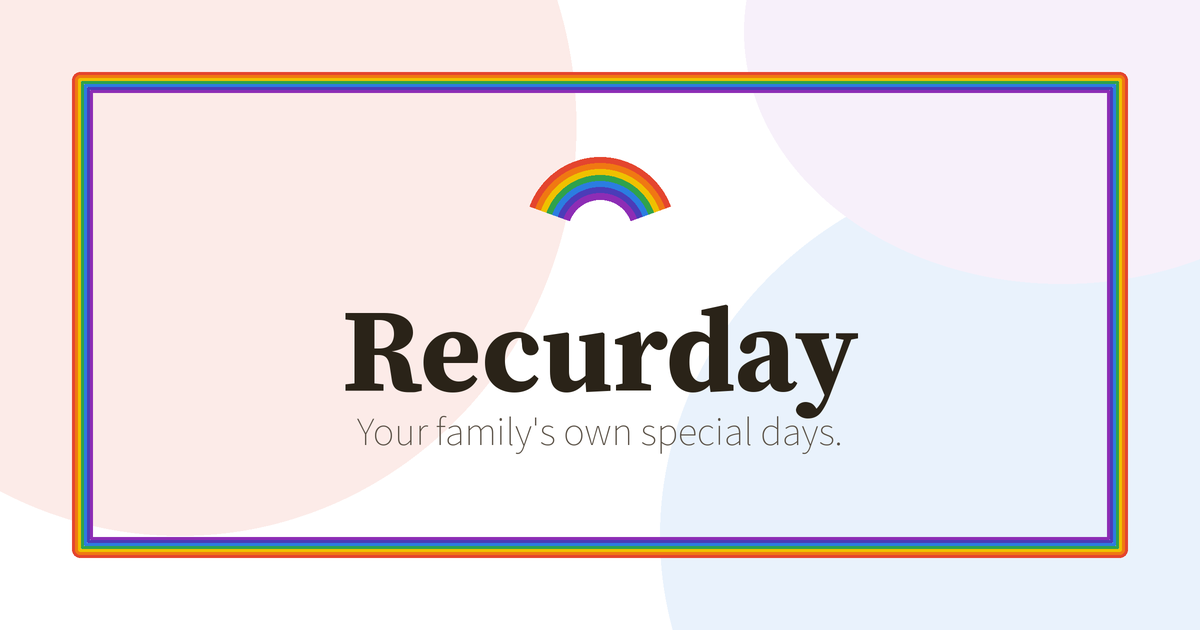
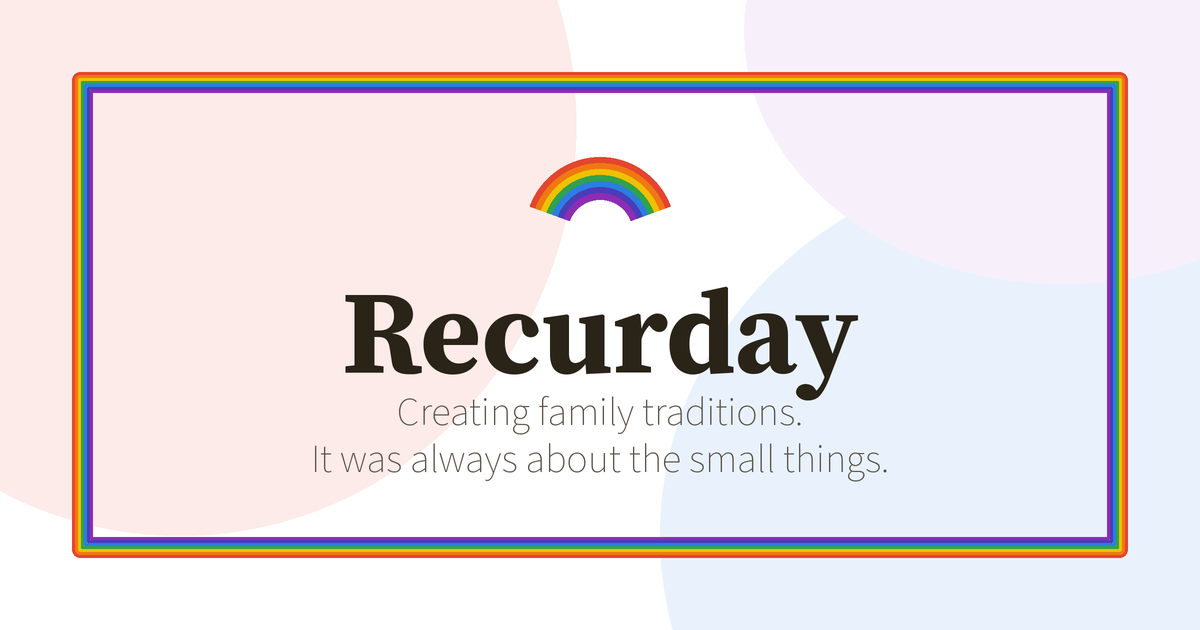
Use a clearer tagline about the small things
The headline is now "Creating family traditions. It was always about
the small things." A lighter line under it on the home screen and the
invite page says "Not the big holidays. The ones your family makes
your own." The same headline replaces the old slogan in the manifest,
link previews, and README.

Changed region(s): [[0.2467, 0.4524, 0.74, 0.754]]

diff --git a/src/worker.js b/src/worker.js
@@ -1,5 +1,5 @@
 import { mediaStore } from "./storage.js";
-import { SECURITY, json, html, esc, pageShell, familyNav, nowIso, clip, originOf } from "./http.js";
+import { SECURITY, json, html, esc, pageShell, familyNav, nowIso, clip, originOf, TAGLINE } from "./http.js";
 import { hueOf, parseTiming, bindRule, describeRule } from "./calendar.js";
 import { sha256hex, randomToken } from "./auth.js";
 import { familyFromRequest, handleFamilyApi, calendarPage, calendarFeed, familyExport, canClaimRole } from "./family.js";
@@ -617,11 +617,12 @@ async function renderTraditionResponse(request, env, auth, url, { newHousehold, 
   const selectedDay = data.days.find((d) => d.year === selected);
   const body = renderTradition(data, { selected, selectedDay, currentYear, token, newHousehold, family });
   const when = data.tradition.timing_note || "A family tradition";
+  const isShare = auth.role === "share";
   return html(pageShell({
     title: `${data.tradition.name} — Recurday`,
-    description: when,
-    ogTitle: data.tradition.name,
-    ogDescription: [when, data.tradition.practice_note].filter(Boolean).join(" — ").slice(0, 180),
+    description: isShare ? TAGLINE : when,
+    ogTitle: isShare ? "Recurday" : data.tradition.name,
+    ogDescription: isShare ? TAGLINE : [when, data.tradition.practice_note].filter(Boolean).join(" — ").slice(0, 180),
     origin: originOf(request),
     hue: hueOf(data.tradition.name),
     nav: familyNav(family),
@@ -634,8 +635,10 @@ function renderTradition(data, { selected, selectedDay, currentYear, token, newH
   if (role === "share" && !accepted) {
     return `
       <p class="eyebrow">A family invited you</p>
+      <p class="lead tagline">Creating family traditions. It was always about the small things.</p>
+      <p class="support">Not the big holidays. The ones your family makes your own.</p>
       <h1>${esc(tradition.name)}</h1>
-      <p class="lead">They wanted to pass this day on to you. Accept to look — their photos stay private until you do.</p>
+      <p>They wanted to pass this day on to you. Accept to look — their photos stay private until you do.</p>
       <div class="card">
         <p><strong>When:</strong> ${esc(tradition.timing_note || "They haven't written when it happens yet.")}</p>
         ${tradition.practice_note ? `<p class="practice">${esc(tradition.practice_note)}</p>` : ""}
@@ -838,7 +841,7 @@ function renderStartYourOwn() {
   return `
     <div class="card" id="start-your-own">
       <h2>Start your own family's traditions</h2>
-      <p>If this day meant something to you, you can keep days like it at home — given back to each other, year after year. Text a link. No app store.</p>
+      <p>If this day meant something to you, you can keep days like it at home. Text a link. No app store.</p>
       <a class="btn" href="/">Start your family's traditions</a>
     </div>`;
 }

diff --git a/public/index.html b/public/index.html
@@ -6,9 +6,9 @@
   <meta name="robots" content="noindex, nofollow">
   <meta name="referrer" content="no-referrer">
   <title>Recurday</title>
-  <meta name="description" content="Keep the days your family gives back to each other, away from the major holidays, and rewatch them as the years go by.">
+  <meta name="description" content="Creating family traditions. It was always about the small things.">
   <meta property="og:title" content="Recurday">
-  <meta property="og:description" content="Your family's own special days, kept and given back as the kids grow.">
+  <meta property="og:description" content="Creating family traditions. It was always about the small things.">
   <meta property="og:type" content="website">
   <meta property="og:image" content="/og.png">
   <meta name="twitter:card" content="summary_large_image">
@@ -27,8 +27,9 @@
     <header class="top">
       <a class="brand" href="/"><img class="logo-mark" src="/icons/mark.svg" width="36" height="22" alt="">Recurday</a>
     </header>
-    <h1>Your family's own special days.</h1>
-    <p class="lead">Away from the major holidays. Keep a day you give to each other, take pictures, and come back next year — and watch one another grow. Recurday spreads when you text a link, not through an app store.</p>
+    <h1>Creating family traditions.</h1>
+    <p class="lead">It was always about the small things.</p>
+    <p class="support">Not the big holidays. The ones your family makes your own.</p>
 
     <div class="card">
       <h2>Start your family's traditions</h2>

diff --git a/src/http.js b/src/http.js
@@ -6,6 +6,9 @@ export const SECURITY = {
     "default-src 'self'; img-src 'self' data:; media-src 'self'; style-src 'self'; script-src 'self'; form-action 'self'; base-uri 'self'; frame-ancestors 'none'",
 };
 
+export const TAGLINE = "Creating family traditions. It was always about the small things.";
+export const TAGLINE_SUPPORT = "Not the big holidays. The ones your family makes your own.";
+
 export function json(body, status = 200, extraHeaders = {}) {
   return new Response(JSON.stringify(body), {
     status,

diff --git a/public/styles.css b/public/styles.css
@@ -104,13 +104,28 @@ h1, h2, h3 {
   margin: 0 0 0.6rem;
 }
 
-h1 { font-size: 2rem; }
+h1 { font-size: 2rem; text-wrap: pretty; }
 h2 { font-size: 1.35rem; }
 
 .lead {
   color: var(--muted);
   font-size: 1.05rem;
   margin: 0 0 1.5rem;
+  text-wrap: pretty;
+}
+
+.home .lead,
+.lead.tagline {
+  margin-bottom: 0.45rem;
+}
+
+.support {
+  color: var(--muted);
+  font-size: 0.98rem;
+  line-height: 1.45;
+  margin: 0 0 1.6rem;
+  max-width: 28rem;
+  text-wrap: pretty;
 }
 
 .card {

diff --git a/public/sw.js b/public/sw.js
@@ -1,5 +1,5 @@
 /* Recurday app shell only. Never cache family photos, videos, or tradition pages. */
-const CACHE = "recurday-shell-v3";
+const CACHE = "recurday-shell-v4";
 const SHELL = [
   "/",
   "/styles.css",

diff --git a/scripts/generate-brand.py b/scripts/generate-brand.py
@@ -216,19 +216,24 @@ def make_og(path: Path) -> None:
         sans = ImageFont.truetype(str(SANS), int(40 * scale))
 
     title = "Recurday"
-    tag = "Your family's own special days."
+    tag_lines = [
+        "Creating family traditions.",
+        "It was always about the small things.",
+    ]
     # Center text
     tb = draw.textbbox((0, 0), title, font=serif)
     tw, th = tb[2] - tb[0], tb[3] - tb[1]
     tx = (w - tw) / 2 - tb[0]
-    ty = int(268 * scale)
+    ty = int(250 * scale)
     draw.text((tx, ty), title, font=serif, fill=INK)
 
-    gb = draw.textbbox((0, 0), tag, font=sans)
-    gw, gh = gb[2] - gb[0], gb[3] - gb[1]
-    gx = (w - gw) / 2 - gb[0]
-    gy = ty + th + int(22 * scale)
-    draw.text((gx, gy), tag, font=sans, fill=MUTED)
+    gy = ty + th + int(20 * scale)
+    for line in tag_lines:
+        gb = draw.textbbox((0, 0), line, font=sans)
+        gw, gh = gb[2] - gb[0], gb[3] - gb[1]
+        gx = (w - gw) / 2 - gb[0]
+        draw.text((gx, gy), line, font=sans, fill=MUTED)
+        gy += gh + int(8 * scale)
 
     out = img.resize((W, H), Image.Resampling.LANCZOS)
     path.parent.mkdir(parents=True, exist_ok=True)

diff --git a/README.md b/README.md
@@ -1,6 +1,8 @@
 # Recurday
 
-A free web app for a family's own special traditions — away from the major holidays. Text a link, add photos of the day you keep, and come back next year to rewatch as the kids grow.
+Creating family traditions. It was always about the small things.
+
+A free web app for the days a family makes their own. Text a link, add photos of the day you keep, and come back next year to rewatch as the kids grow.
 
 Live: [https://recurday.bgarofalo1.workers.dev](https://recurday.bgarofalo1.workers.dev)
 
